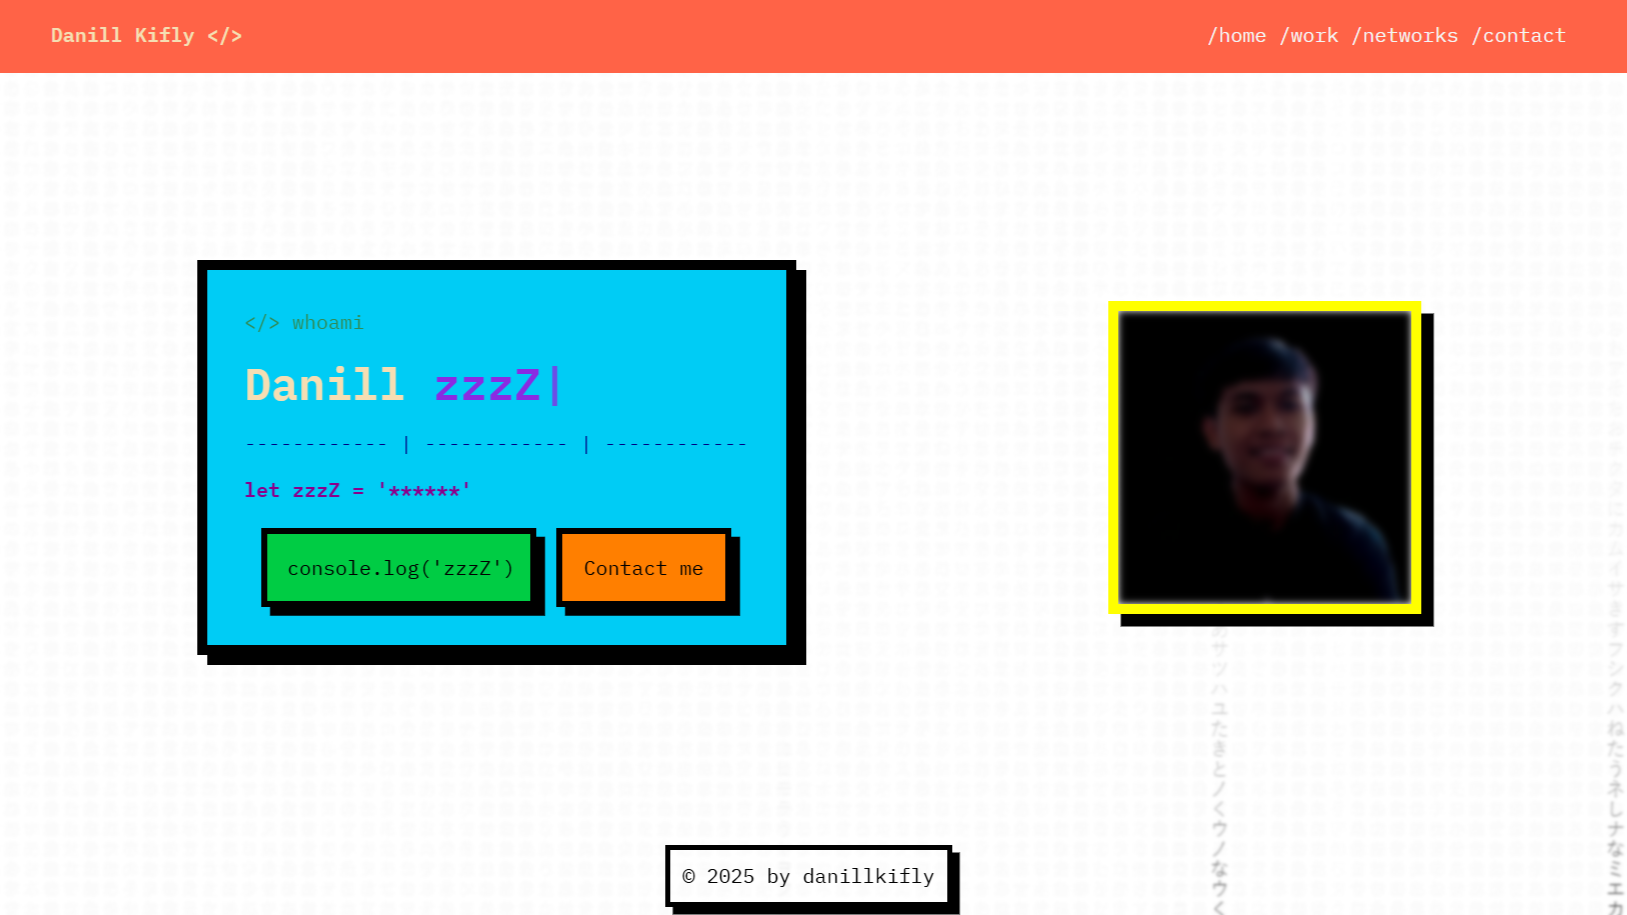
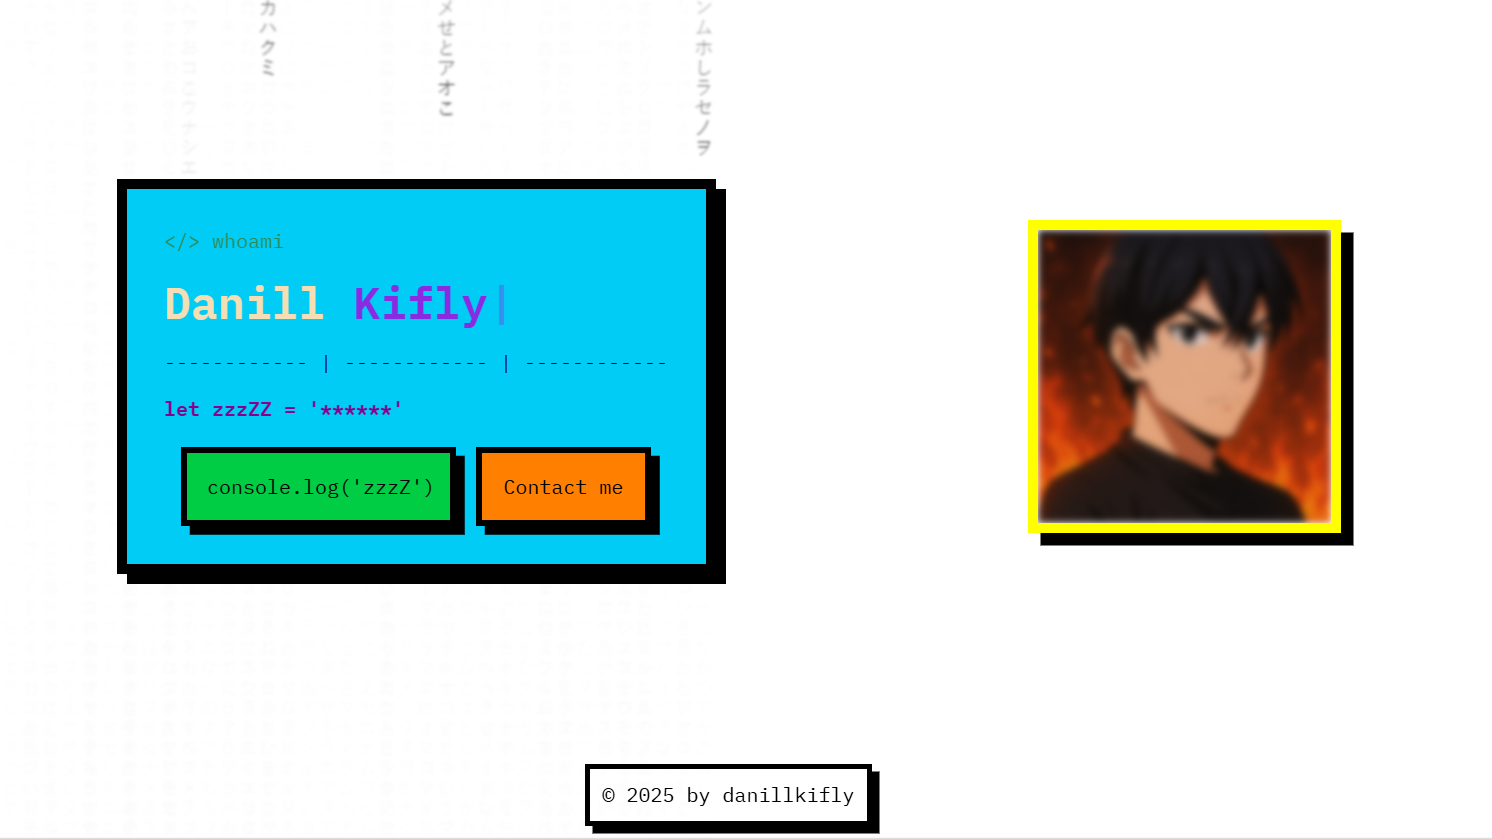
first commit

diff --git a/index.html b/index.html
@@ -3,7 +3,7 @@
   <head>
     <meta charset="UTF-8" />
     <meta name="viewport" content="width=device-width, initial-scale=1.0" />
-    <title>zzzZ</title>
+    <title>zzzZZ</title>
 
     <link rel="stylesheet" href="style.css" />
 
@@ -42,10 +42,10 @@
 
         <div class="features">
           <div class="cardG">
-            <p>console.log('zzzZ')</p>
+            <p>console.log('zzzZZ')</p>
           </div>
           <div class="cardO">
-            <p>Contact me</p>
+            <p>FWBC</p>
           </div>
         </div>
       </div>
@@ -64,7 +64,7 @@
            <div class="project-card">
             <img src="img/w3.png" alt="Pixup Project" />
             <div class="actions">
-              <h2>zzzZ</h2>
+              <h2>Bio</h2>
               <div class="actions-icon">
                 <a href="https://bio-danillkifly.vercel.app/" target="_blank">
                   <i class="fas fa-eye"></i>
@@ -74,9 +74,9 @@
                 </a>
               </div>              
             </div>
-            <p>I created this web portfolio for fun, inspired by roastgram.</p>
+            <p>Sarted trying to use Tailwind CSS and animations from GSAP.</p>
             <div class="tags">
-              <span>HTML</span><span>CSS</span><span>JavaScript</span>
+              <span>Tailwind</span><span>GSAP</span><span>JavaScript</span>
             </div>            
           </div>
 
@@ -93,7 +93,7 @@
                 </a>
               </div>              
             </div>
-            <p>Running some function in JavaScript and trying out Tailwind CSS with to-do list app.</p>
+            <p>Running some function in JavaScript and trying out Tailwind with to-do list app.</p>
             <div class="tags">
               <span>HTML</span><span>Tailwind</span><span>JavaScript</span>
             </div>
@@ -102,12 +102,12 @@
           <div class="project-card">
             <img src="img/w1.png" alt="Pixup Project" />
             <div class="actions">
-              <h2>zzzZ</h2>
+              <h2>zzzZZ</h2>
               <div class="actions-icon">
                 <a href="https://zzz-zz.vercel.app/" target="_blank">
                   <i class="fas fa-eye"></i>
                 </a>
-                <a href="https://github.com/danillkifly/zzz-z" target="_blank">
+                <a href="https://github.com/danillkifly/zzz-zz" target="_blank">
                   <i class="fab fa-github"></i>
                 </a>
               </div>              
@@ -226,18 +226,7 @@
             <p>Social</p>
           </div>
           <div class="arrow" style="background-color:#5865f2;">&gt;</div>
-        </a>
-
-        <a class="networks-card" href="https://twitch.tv/yourhandle" target="_blank">
-          <div class="icon" style="background-color:#9146FF;">
-            <img src="https://img.icons8.com/ios-filled/50/ffffff/twitch.png" alt="Twitch" />
-          </div>
-          <div class="text">
-            <h3>Twitch</h3>
-            <p>Content</p>
-          </div>
-          <div class="arrow" style="background-color:#9146FF;">&gt;</div>
-        </a>        
+        </a>              
     </section>
 
     <section id="contact" class="contact">

diff --git a/style.css b/style.css
@@ -153,7 +153,7 @@ h1 {
 
 .cardG {
   background: #00cc44;
-  width: 220px;
+  width: 230px;
   padding: 1rem;
   border: 5px solid black;
   box-shadow: 7px 7px 0 black;
@@ -173,12 +173,11 @@ h1 {
 
 .cardO {
   background: #ff7f00;
-  width: 140px;
+  width: 100px;
   padding: 1rem;
   border: 5px solid black;
   box-shadow: 7px 7px 0 black;
   text-align: center;
-  cursor: pointer;
   transition: transform 0.3s ease;
 }
 
